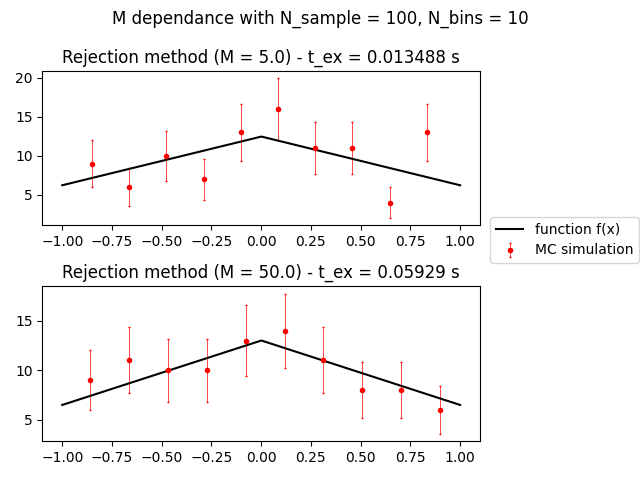
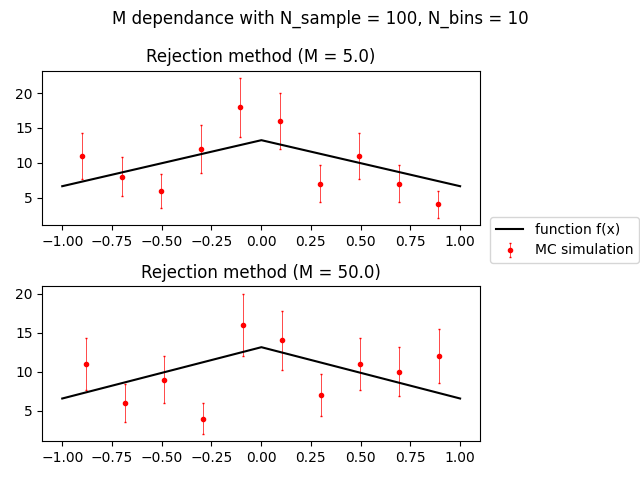
graph impr + chi_sq + test_funct plot

diff --git a/Montecarlo/montecarlo_test.py b/Montecarlo/montecarlo_test.py
@@ -7,24 +7,25 @@ import matplotlib.pyplot as plt
 import scipy.integrate as integrate
 from scipy.special import erf
 from scipy.optimize import fsolve
-from scipy.interpolate import interp1d
+from scipy.stats import chi2
 import os
 import sys
 sys.path.insert(0, '/home/lorenzo/GCE-and-MSPs/toolbox')
-from tools import bounded_norm_distr, bisection, newton_root_finder, log_scale_int, accum_func, func_shifter, func_norm, gaussian
+from tools import chisq, bounded_norm_distr, bisection, newton_root_finder, log_scale_int, accum_func, func_shifter, func_norm, gaussian
 from gce import broken_pl, log_norm
 start_time = time.monotonic()
 
 
-exercise = 9     #to execute only one exercise at time
+exercise = 10    #to execute only one exercise at time
 #1 -2 : reproducing simple distribution sample 
 #3 : Rej-Acc method(1 sample)
 #4 : Rej-Acc method multiple sample
 #5 : Inverse function method using fsolve
 #6 : Inverse function using custom root finders (not working)
 #7 : Inverse function using cumulative 
-#8 : IF - cumon luminosty functions
+#8 : IF - cumulative luminosty functions
 #9 : Comparison between different techniques
+#10 : test functions plotting
 
 comparison = True       #if true generates the comparison section of the selected exercise (if it exists)
 #**************************************************************
@@ -158,7 +159,7 @@ elif exercise == 3 :
     x = np.array(temp)
     end_time = time.monotonic()
     ex_time = str(timedelta(seconds= end_time - start_time).total_seconds()) + " s"
-    print("Execution time:  (M =" ,   str(M) , ") :", timedelta(seconds= end_time - start_time))
+    print("Execution time  (M =" ,   str(M) , ") :", timedelta(seconds= end_time - start_time))
     title = "Iterations needed (M =  " + str(M) + ") :" +   str(iter)
     print(title)
 
@@ -190,6 +191,7 @@ elif exercise == 3 :
 
  #Comparison plot (works better with abs value function an initial cond 1<M<10)
     else:
+         
         fig, (ax1, ax2) = plt.subplots(2)
 
         y_n, bin_edges = np.histogram(x, n_bins, density = False)
@@ -198,13 +200,15 @@ elif exercise == 3 :
             bin_means[n] = (bin_edges[n+1] + bin_edges[n]) * 0.5       #mid point of bins
     
         bin_dim = np.diff(bin_edges)[0]                                #bins width
-
-
+        
+        chi1 = chisq(bin_means, y_n, func_norm, (myfunc, x_min, x_max, sample_dim*bin_dim))
+        print("chi_square value  (M =" ,   str(M) , ") :", chi1[0] , "\np_value  (M =" ,   str(M) , ") :", chi1[1])
         y_err = (y_n)**0.5                                              #error on counts
         ax1.errorbar(bin_means, y_n , yerr = y_err, color='r', capsize=1, capthick=1,ls='', elinewidth=0.5,marker='o',markersize=3, label = 'MC simulation')
         ax1.plot(draw, func_norm(draw, myfunc, x_min, x_max, sample_dim)* bin_dim, color = "black", label = "function f(x)")
-        title = "Rejection method (M = " + str(M) + ") - t_ex = " + ex_time
+        title = "Rejection method (M = " + str(M) + ")"
         ax1.set_title(title)
+
 
         start_time = time.monotonic()
 
@@ -227,7 +231,7 @@ elif exercise == 3 :
         x = np.array(temp)
         end_time = time.monotonic()
         ex_time = str(timedelta(seconds= end_time - start_time).total_seconds()) + " s"
-        print("Execution time:  (M =" ,   str(M) , ") :", timedelta(seconds= end_time - start_time))
+        print("Execution time  (M =" ,   str(M) , ") :", timedelta(seconds= end_time - start_time))
         title = "Iterations needed (M =  " + str(M) + ") :" +   str(iter)
         print(title)
 
@@ -238,11 +242,12 @@ elif exercise == 3 :
     
         bin_dim = np.diff(bin_edges)[0]                                #bins width
 
-
+        chi1 = chisq(bin_means, y_n, func_norm, (myfunc, x_min, x_max, sample_dim*bin_dim))
+        print("chi_square value  (M =" ,   str(M) , ") :", chi1[0] , "\np_value  (M =" ,   str(M) , ") :", chi1[1])
         y_err = (y_n)**0.5                                              #error on counts
         ax2.errorbar(bin_means, y_n , yerr = y_err, color='r', capsize=1, capthick=1,ls='', elinewidth=0.5,marker='o',markersize=3)
         ax2.plot(draw, func_norm(draw, myfunc, x_min, x_max, sample_dim)* bin_dim, color = "black")
-        title = "Rejection method (M = " + str(M) + ") - t_ex = " + ex_time
+        title = "Rejection method (M = " + str(M) + ")"
         ax2.set_title(title)
 
         fig.legend(loc = 'center right',  borderaxespad=0.1,)
@@ -618,7 +623,7 @@ elif exercise == 7 :
 
     end_time = time.monotonic()
     time1 = timedelta(seconds= end_time - start_time).total_seconds()
-    printing = "Execution time with n_bins = " + str(n_bins) +  " :" + str(time1) + " s"
+    printing = "Execution time (n_bins = " + str(n_bins) +  ") :" + str(time1) + " s"
     print(printing)
  #-----------------------------------------------
     #Single plot
@@ -643,8 +648,11 @@ elif exercise == 7 :
         y_err = y_n ** 0.5
         ax1.plot(draw, y_draw/norm*sample_dim*bin_dim, color = "black", label = "function f(x)")
         ax1.errorbar(cum_points[1:], y_n[1:] , yerr = y_err[1:], color='r', capsize=1, capthick=1,ls='', elinewidth=0.5,marker='o',markersize=3, label = 'MC simulation')
-        title = r'Cumulative method - N_sample=' + str(sample_dim) + r' and N_bins=' + str(n_bins)
+        title = r'Cumulative method -  and N_bins=' + str(n_bins)
         ax1.set_title(title)
+
+        chi1 = chisq(cum_points[1:], y_n[1:], func_norm, (myfunc, x_min, x_max, sample_dim*bin_dim))
+        print("chi_square value  (n_bins=" ,   str(n_bins) , ") :", chi1[0] , "\np_value  (n_bins =" ,   str(n_bins) , ") :", chi1[1])
 
         start_time = time.monotonic()
 
@@ -673,16 +681,21 @@ elif exercise == 7 :
 
         end_time = time.monotonic()
         time1 = timedelta(seconds= end_time - start_time).total_seconds()
-        printing = "Execution time with n_bins = " + str(n_bins) +  " :" + str(time1) + " s"
+        printing = "Execution time (n_bins = " + str(n_bins) +  ") :" + str(time1) + " s"
         print(printing)
 
         y_err = y_n ** 0.5
         ax2.plot(draw, y_draw/norm*sample_dim*bin_dim, color = "black")
         ax2.errorbar(cum_points[1:], y_n[1:] , yerr = y_err[1:], color='r', capsize=1, capthick=1,ls='', elinewidth=0.5,marker='o',markersize=3)
-        title = r'Cumulative method - N_sample=' + str(sample_dim) + r' and N_bins=' + str(n_bins)
+        title = r'Cumulative method - N_bins=' + str(n_bins)
         ax2.set_title(title)
 
+        chi1 = chisq(cum_points[1:], y_n[1:], func_norm, (myfunc, x_min, x_max, sample_dim*bin_dim))
+        print("chi_square value  (n_bins=" ,   str(n_bins) , ") :", chi1[0] , "\np_value  (n_bins =" ,   str(n_bins) , ") :", chi1[1])
+
         fig.legend(loc = 'center right',  borderaxespad=0.1,)
+        fig_title = "N_bins dependence with N_sample = " + str(int(sample_dim)) 
+        plt.suptitle(fig_title)
         fig.tight_layout()
         plt.subplots_adjust(right = 0.73)
         plt.savefig(os.path.join("Cumulative_diff_nbins.png"))       
@@ -782,7 +795,7 @@ elif exercise == 9:
     fig, (ax1, ax2, ax3) = plt.subplots(3)
 
  #-----------------------------------------------
-    sample_dim = 1.0e4                   #sample dimension
+    sample_dim = 1.0e4                  #sample dimension
     n_bins = round(sample_dim**0.5)         #number of bins
     bin_dim = (x_max - x_min) / n_bins      #bins width
 
@@ -833,7 +846,8 @@ elif exercise == 9:
 
     end_time = time.monotonic()
     cum_time = timedelta(seconds= end_time - start_time)
-    print("Cumulative tech. execution time: " , cum_time )
+    cum_chi = chisq(cum_points[1:], y_n_cum[1:], func_norm, (myfunc, x_min, x_max, sample_dim*bin_dim))
+
 
  #-----------------------------------------------
  #fsolve
@@ -861,7 +875,6 @@ elif exercise == 9:
 
     end_time = time.monotonic()
     fsolve_time = timedelta(seconds= end_time - start_time)
-    print("fsolve execution time: " , fsolve_time)
  #-----------------------------------------------
  #rejection
     start_time = time.monotonic()
@@ -890,8 +903,8 @@ elif exercise == 9:
 
     end_time = time.monotonic()
     rej_time = timedelta(seconds= end_time - start_time)
-    print("Rejection method execution time: " , rej_time )
-    print("Iterations needed for rejection method: ", iter)
+  
+    #print("Iterations needed for rejection method: ", iter)
  #-----------------------------------------------
 
     #plots
@@ -904,8 +917,12 @@ elif exercise == 9:
     #count, bins, ignored = ax.hist(x, n_bins, density=True)
     ax1.plot(draw, y_draw/norm*sample_dim*bin_dim, color = "black", label = "Function f(x)")
     ax1.errorbar(cum_points[1:], y_n_cum[1:] , yerr = y_err_cum[1:], color='r', capsize=1, capthick=1,ls='', elinewidth=0.5,marker='o',markersize=3, label = 'MCS IF-c')
-    title = "Cumulative func. technique - (t_ex = " + str(cum_time.total_seconds()) + " s)"
+    title = "Cumulative func. technique "
     ax1.set_title(title)
+
+    print("Cumulative tech. execution time: " , cum_time, " s")
+    print("Cumulative tech. chi_sq: " , cum_chi[0])
+
 
     #fsolve
     y_n_fs, bin_edges_fs = np.histogram(x_fs, n_bins, density = False)
@@ -915,12 +932,17 @@ elif exercise == 9:
     
     bin_dim_fs = np.diff(bin_edges_fs)[0]                              #bins width
 
+    fsolve_chi = chisq(bin_means_fs, y_n_fs, func_norm, (myfunc, x_min, x_max, sample_dim*bin_dim))
+
     y_err_fs = (y_n_fs)**0.5                                          #error on counts
     ax2.plot(draw, y_draw/norm*sample_dim*bin_dim, color = "black")
     #count, bins, ignored = ax.hist(x, n_bins, density=True)
     ax2.errorbar(bin_means_fs, y_n_fs , yerr = y_err_fs, color='blue', capsize=1, capthick=1,ls='', elinewidth=0.5,marker='o',markersize=3, label = 'MCS IF-f')
-    title = "fsolve technique - (t_ex = " + str(fsolve_time.total_seconds()) + " s)"
+    title = "fsolve technique "
     ax2.set_title(title)
+
+    print("Root finder tech. execution time: " , fsolve_time, " s")
+    print("Root finder tech. chi_sq: " , fsolve_chi[0])
 
     #rejection
     y_n_rej, bin_edges_rej = np.histogram(x_rej, n_bins, density = False)
@@ -930,11 +952,17 @@ elif exercise == 9:
     
     bin_dim_rej = np.diff(bin_edges_rej)[0]                                #bins width
 
+    rej_chi = chisq(bin_means_rej, y_n_rej, func_norm, (myfunc, x_min, x_max, sample_dim*bin_dim))
+
     y_err_rej = (y_n_rej)**0.5                                              #error on counts
     ax3.plot(draw, y_draw/norm*sample_dim*bin_dim, color = "black")
     ax3.errorbar(bin_means_rej, y_n_rej , yerr = y_err_rej, color='g', capsize=1, capthick=1,ls='', elinewidth=0.5,marker='o',markersize=3, label = 'MCS RAM')
-    title = "Rejection method - (t_ex = " + str(rej_time.total_seconds()) + " s)"
+    title = "Rejection method "
     ax3.set_title(title)   
+
+    print("Rejection method execution time: " , rej_time, " s")
+    print("Rejection method chi_sq: " , rej_chi[0])
+
      
     fig.legend(loc = 'center right',  borderaxespad=0.1,)
     fig_title = "Comparison with N_sample = " + str(int(sample_dim)) + ", N_bins = " + str(n_bins)
@@ -942,6 +970,38 @@ elif exercise == 9:
     fig.tight_layout()
     plt.subplots_adjust(right = 0.73)
     plt.savefig(os.path.join("comparing.png"))
+
+#**************************************************************
+#COMPARING (simple func)
+elif exercise == 10:
+    x_min = -1.0                    #interval of interest
+    x_max = 1.0
+    #drawing and plot
+    draw = np.linspace(x_min, x_max, 10000)
+    fig, ax = plt.subplots()
+
+    k = 1.0
+    alpha = -2.0
+    beta = 1.0
+    arg = ()
+
+
+    def myfunc0(x):
+        #log parabola
+        a = alpha - beta * np.log10(x+2.0)
+        return (k * (x+2.0)**a) 
+    def myfunc1(x):
+        #abs func (cusp)
+        return (-abs(x) + 1.0) 
+    def myfunc2(x):
+        return (-x+2.0)
+    
+    ax.plot(draw, myfunc0(draw), color = "blue", label = "log-parabola")
+    ax.plot(draw, myfunc1(draw), color = "red", label = "cusp-function")
+
+    ax.set_title("Test functions used")
+    plt.legend()
+    plt.savefig(os.path.join("test_funct.png"))
 
 end_time = time.monotonic()
 print("Execution time: " , timedelta(seconds= end_time - start_time))

diff --git a/toolbox/tools.py b/toolbox/tools.py
@@ -3,6 +3,7 @@
 import numpy as np
 import scipy.integrate as integrate
 from scipy.special import erf
+from scipy.stats import chi2
 #from scipy.special import gammaincc,gamma, exp1
 #import os
 
@@ -209,4 +210,15 @@ def bounded_norm_distr(mu, sigma, x_min, x_max):
 
     return y
 
+
+def chisq (x, y , func, arg=()):
+    chi = 0.0
+    df = len(x) -1
+    for i in range(0,len(x)):
+        expect = func(x[i], *arg)
+        chi_i = ((y[i] - expect)**2) / expect
+        chi += chi_i
+    p_value = 1 - chi2.cdf(x=chi,  # Find the p-value
+                             df=df)
+    return (chi, p_value)
 

diff --git a/tests/tests.py b/tests/tests.py
@@ -329,3 +329,12 @@ elif test_numb == 7:
     res = bisection(myfunc, args, x_min, x_max, tol, n_max, True)
 
     print(res)
+
+
+           #def chisq (x, y , func, arg=()):
+            #chi = 0.0
+            #for i in x:
+            #    expect = func(x[i], *arg)
+            #    chi_i = ((y[i] - expect)**2) / expect
+            #    chi += chi_i
+            #return chi 
